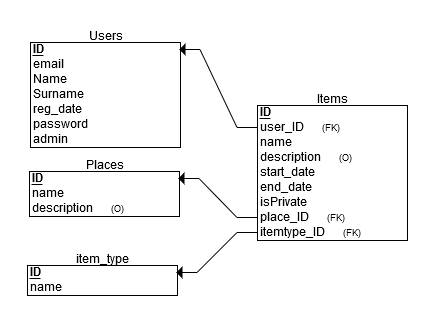
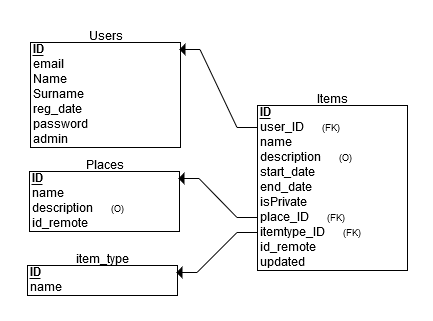
v.0.4.1

Changed region(s): [[0.6005, 0.7477, 0.7506, 0.8411], [0.06, 0.6542, 0.2102, 0.7165]]

diff --git a/app/restapi/places.py b/app/restapi/places.py
@@ -1,7 +1,8 @@
 # Places RESTful endpoints
 from flask_restful import Resource
 from app.sql import runSQL
-from app.google_calendar import gc_sync_db
+from app.google_calendar import gc_sync_db, gc_synced
+from app import app
 
 class Places(Resource):
     def get(self,  place_id=None):
@@ -39,61 +40,63 @@ class PlacesItems(Resource):
     def get(self, place_id, start_date=None, end_date=None):
 
         if end_date:
-            gc_sync_db(place_id, start_date, end_date)
+            if not gc_synced():
+                gc_sync_db(place_id, start_date, end_date)
             return runSQL('''
-                SELECT * FROM items
+                SELECT {fields}
+                FROM items
                 WHERE place_id = {place_id}
                 AND ((datetime(start_date) < datetime('{start_date}') AND datetime('{start_date}') < datetime(end_date))
                     OR (datetime('{start_date}') <= datetime(start_date) AND datetime(end_date) <= datetime('{end_date}'))
                     OR (datetime(start_date) < datetime('{end_date}') AND datetime('{end_date}') < datetime(end_date)));
-                '''.format(place_id=place_id, start_date=start_date, end_date=end_date)), 200
+                '''.format(place_id=place_id, start_date=start_date, end_date=end_date, fields=app.config['SQL_DEFAULT_FIELDS'])), 200
         elif start_date:
-            gc_sync_db(place_id, start_date)
+            if not gc_synced():
+                gc_sync_db(place_id, start_date)
             return runSQL('''
-                SELECT * FROM items
+                SELECT {fields}
+                FROM items
                 WHERE place_id = {place_id}
                 AND ((datetime(start_date) < datetime('{start_date}') AND datetime('{start_date}') < datetime(end_date))
                     OR (datetime('{start_date}') <= datetime(start_date) AND datetime(end_date) <= datetime(datetime('{start_date}'),'+24 hours'))
                     OR (datetime(start_date) < datetime(datetime('{start_date}'),'+24 hours') AND datetime(datetime('{start_date}'),'+24 hours') < datetime(end_date)));
-                '''.format(place_id=place_id, start_date=start_date)), 200
+                '''.format(place_id=place_id, start_date=start_date, fields=app.config['SQL_DEFAULT_FIELDS'])), 200
 
         else:
             return runSQL('''
-                SELECT *
+                SELECT {fields}
                 FROM items
-                WHERE place_id={};
-                '''.format(place_id)), 200 # HTTP status code 200 OK
+                WHERE place_id = {place_id};
+                '''.format(place_id=place_id, fields=app.config['SQL_DEFAULT_FIELDS'])), 200 # HTTP status code 200 OK
 
 
 class PlacesItemsNow(Resource):
     def get(self, place_id):
-
-        gc_sync_db(place_id)
+        if not gc_synced():
+            gc_sync_db(place_id)
         # ongoing event
         a = runSQL('''
-            SELECT id, name, description, strftime('%Y-%m-%dT%H:%M:%SZ', start_date) as start_date,
-                strftime('%Y-%m-%dT%H:%M:%SZ', end_date) as end_date, place_id
+            SELECT {fields}
             FROM items
-            WHERE place_id={}
+            WHERE place_id={place_id}
                 AND itemtype_id=1
                 AND datetime(start_date) <= datetime('now')
                 AND datetime('now') <= datetime(end_date)
                 ORDER BY id_remote DESC, start_date
                 LIMIT 1;
-                '''.format(place_id))
+                '''.format(place_id=place_id, fields=app.config['SQL_DEFAULT_FIELDS']))
 
         # upcoming event
         b = runSQL('''
-            SELECT id, name, description, strftime('%Y-%m-%dT%H:%M:%SZ', start_date) as start_date,
-                strftime('%Y-%m-%dT%H:%M:%SZ', end_date) as end_date, place_id
+            SELECT {fields}
             FROM items
-            WHERE place_id={0}
+            WHERE place_id={place_id}
             AND itemtype_id=1
             AND datetime(start_date) > datetime('now')
             AND date(start_date) = date('now')
             ORDER BY id_remote DESC, start_date
             LIMIT 1;
-                '''.format(place_id))
+                '''.format(place_id=place_id, fields=app.config['SQL_DEFAULT_FIELDS']))
 
         c = []
         #if a or b:

diff --git a/app/google_calendar.py b/app/google_calendar.py
@@ -52,7 +52,7 @@ def gc_get_events(calendar_id, start_datetime, end_datetime):
     # request events from Google Calendar
     events_result = service.events().list(
         calendarId = calendar_id, timeMin = time_min, timeMax = time_max, singleEvents = True,
-        orderBy = 'startTime').execute()
+        orderBy = 'startTime',  timeZone='UTC').execute()
     events = events_result.get('items', [])
     console_log('Recieved {0} events'.format(len(events)), 'info')
 
@@ -128,17 +128,18 @@ def gc_sync_db(place_id=None, start_date=None, end_date=None):
                         WHERE place_id = {place_id}
                         AND id_remote = '{id_remote}';
                         '''.format(place_id=place_id, name=event.get('summary','N/A').strip(), desc=event.get('description', 'N/A').strip(),
-                        start_date=event['start'].get('dateTime', event['start'].get('date')),
-                        end_date=event['end'].get('dateTime', event['end'].get('date')), id_remote=event['id'
-                        ])):
+                        start_date=datetime.datetime.strptime(event['start']['dateTime'], '%Y-%m-%dT%H:%M:%SZ').strftime('%Y-%m-%d %H:%M:%S'),
+                        end_date=datetime.datetime.strptime(event['end']['dateTime'], '%Y-%m-%dT%H:%M:%SZ').strftime('%Y-%m-%d %H:%M:%S'),
+                        id_remote=event['id'])):
                     pass
                 else:
                     runSQL('''
                         INSERT INTO items (name, description, start_date, end_date, user_id, place_id, itemtype_id, id_remote, updated)
                         VALUES ('{name}','{desc}','{start_date}','{end_date}', 1, {place_id}, 1, '{id_remote}', 1);
                         '''.format(place_id=place_id, name=event.get('summary','N/A').strip(), desc=event.get('description','N/A').strip(),
-                        start_date=event['start'].get('dateTime', event['start'].get('date')),
-                        end_date=event['end'].get('dateTime', event['end'].get('date')), id_remote=event['id']))
+                        start_date=datetime.datetime.strptime(event['start']['dateTime'], '%Y-%m-%dT%H:%M:%SZ').strftime('%Y-%m-%d %H:%M:%S'),
+                        end_date=datetime.datetime.strptime(event['end']['dateTime'], '%Y-%m-%dT%H:%M:%SZ').strftime('%Y-%m-%d %H:%M:%S'),
+                        id_remote=event['id']))
 
             # remove not updated items
             runSQL('''

diff --git a/config.py b/config.py
@@ -10,20 +10,27 @@ PORT = int(os.getenv('PORT', '8080'))
 API_NAME = 'Meet Room Watch project RESTful API'
 API_VERSION = '0.4.0'
 
-#Google API
-GC_CLIENT_SECRET = os.path.join(basedir, 'client_secret.json')
-GC_CLIENT_CREDENTIALS = os.path.join(basedir, 'calendar-credentials.json')
-GC_SYNC_INTERVAL = datetime.timedelta(minutes = 1) # Limit minimal re-sync time interval in minutes
-GC_LAST_SYNC = datetime.datetime.utcnow()
-
 # check dev.environment
 if bool(os.getenv('FLASK_DEBUG')):
     DEBUG = True
 else:
     DEBUG = False
 
+#Google API
+GC_CLIENT_SECRET = os.path.join(basedir, 'client_secret.json')
+GC_CLIENT_CREDENTIALS = os.path.join(basedir, 'calendar-credentials.json')
+
+GC_LAST_SYNC = datetime.datetime.utcnow()
+if DEBUG:
+    GC_SYNC_INTERVAL = datetime.timedelta(seconds = 10) # Limit minimal re-sync time interval in minutes
+else:
+    GC_SYNC_INTERVAL = datetime.timedelta(minutes = 5)
+
+
 SQLALCHEMY_DATABASE_URI = 'sqlite:///' + os.path.join(basedir, 'DB/meet-room.db')
 SQLALCHEMY_TRACK_MODIFICATIONS = False
+SQL_DEFAULT_FIELDS='''id, name, description, strftime('%Y-%m-%dT%H:%M:%SZ', start_date) as start_date,
+strftime('%Y-%m-%dT%H:%M:%SZ', end_date) as end_date, place_id'''
 if DEBUG:
     SQL_DEBUG = True
 else:

diff --git a/google-calendar-test.py b/google-calendar-test.py
@@ -61,10 +61,10 @@ def main():
     # timeMax = (current_time + time_zone).strftime("%Y-%m-%dT23:59:59"+tz)
     timeMin = start_time.strftime("%Y-%m-%dT%H:%M:%SZ")
     timeMax = end_time.strftime("%Y-%m-%dT%H:%M:%SZ")
-    print(timeMin, timeMax)
+    print('GC time range [', timeMin, ':', timeMax, ']')
     eventsResult = service.events().list(
         calendarId='primary', timeMin=timeMin, timeMax=timeMax, maxResults=10, singleEvents=True,
-        orderBy='startTime').execute()
+        orderBy='startTime', timeZone='UTC').execute()
     #print(eventsResult)
     events = eventsResult.get('items', [])
 

diff --git a/README.md b/README.md
@@ -31,3 +31,4 @@ Test Server <https://meet-room-restapi.eu-gb.mybluemix.net/>
     /api/places/:place_id/items/dates/:start_datetime
     /api/places/:place_id/items/dates/:start_datetime/:end_datetime
     ```
+* ver. 0.4.1 Fix datetime in JSON response according to ISO-8601. Limit minimal re-sync time interval for GC
